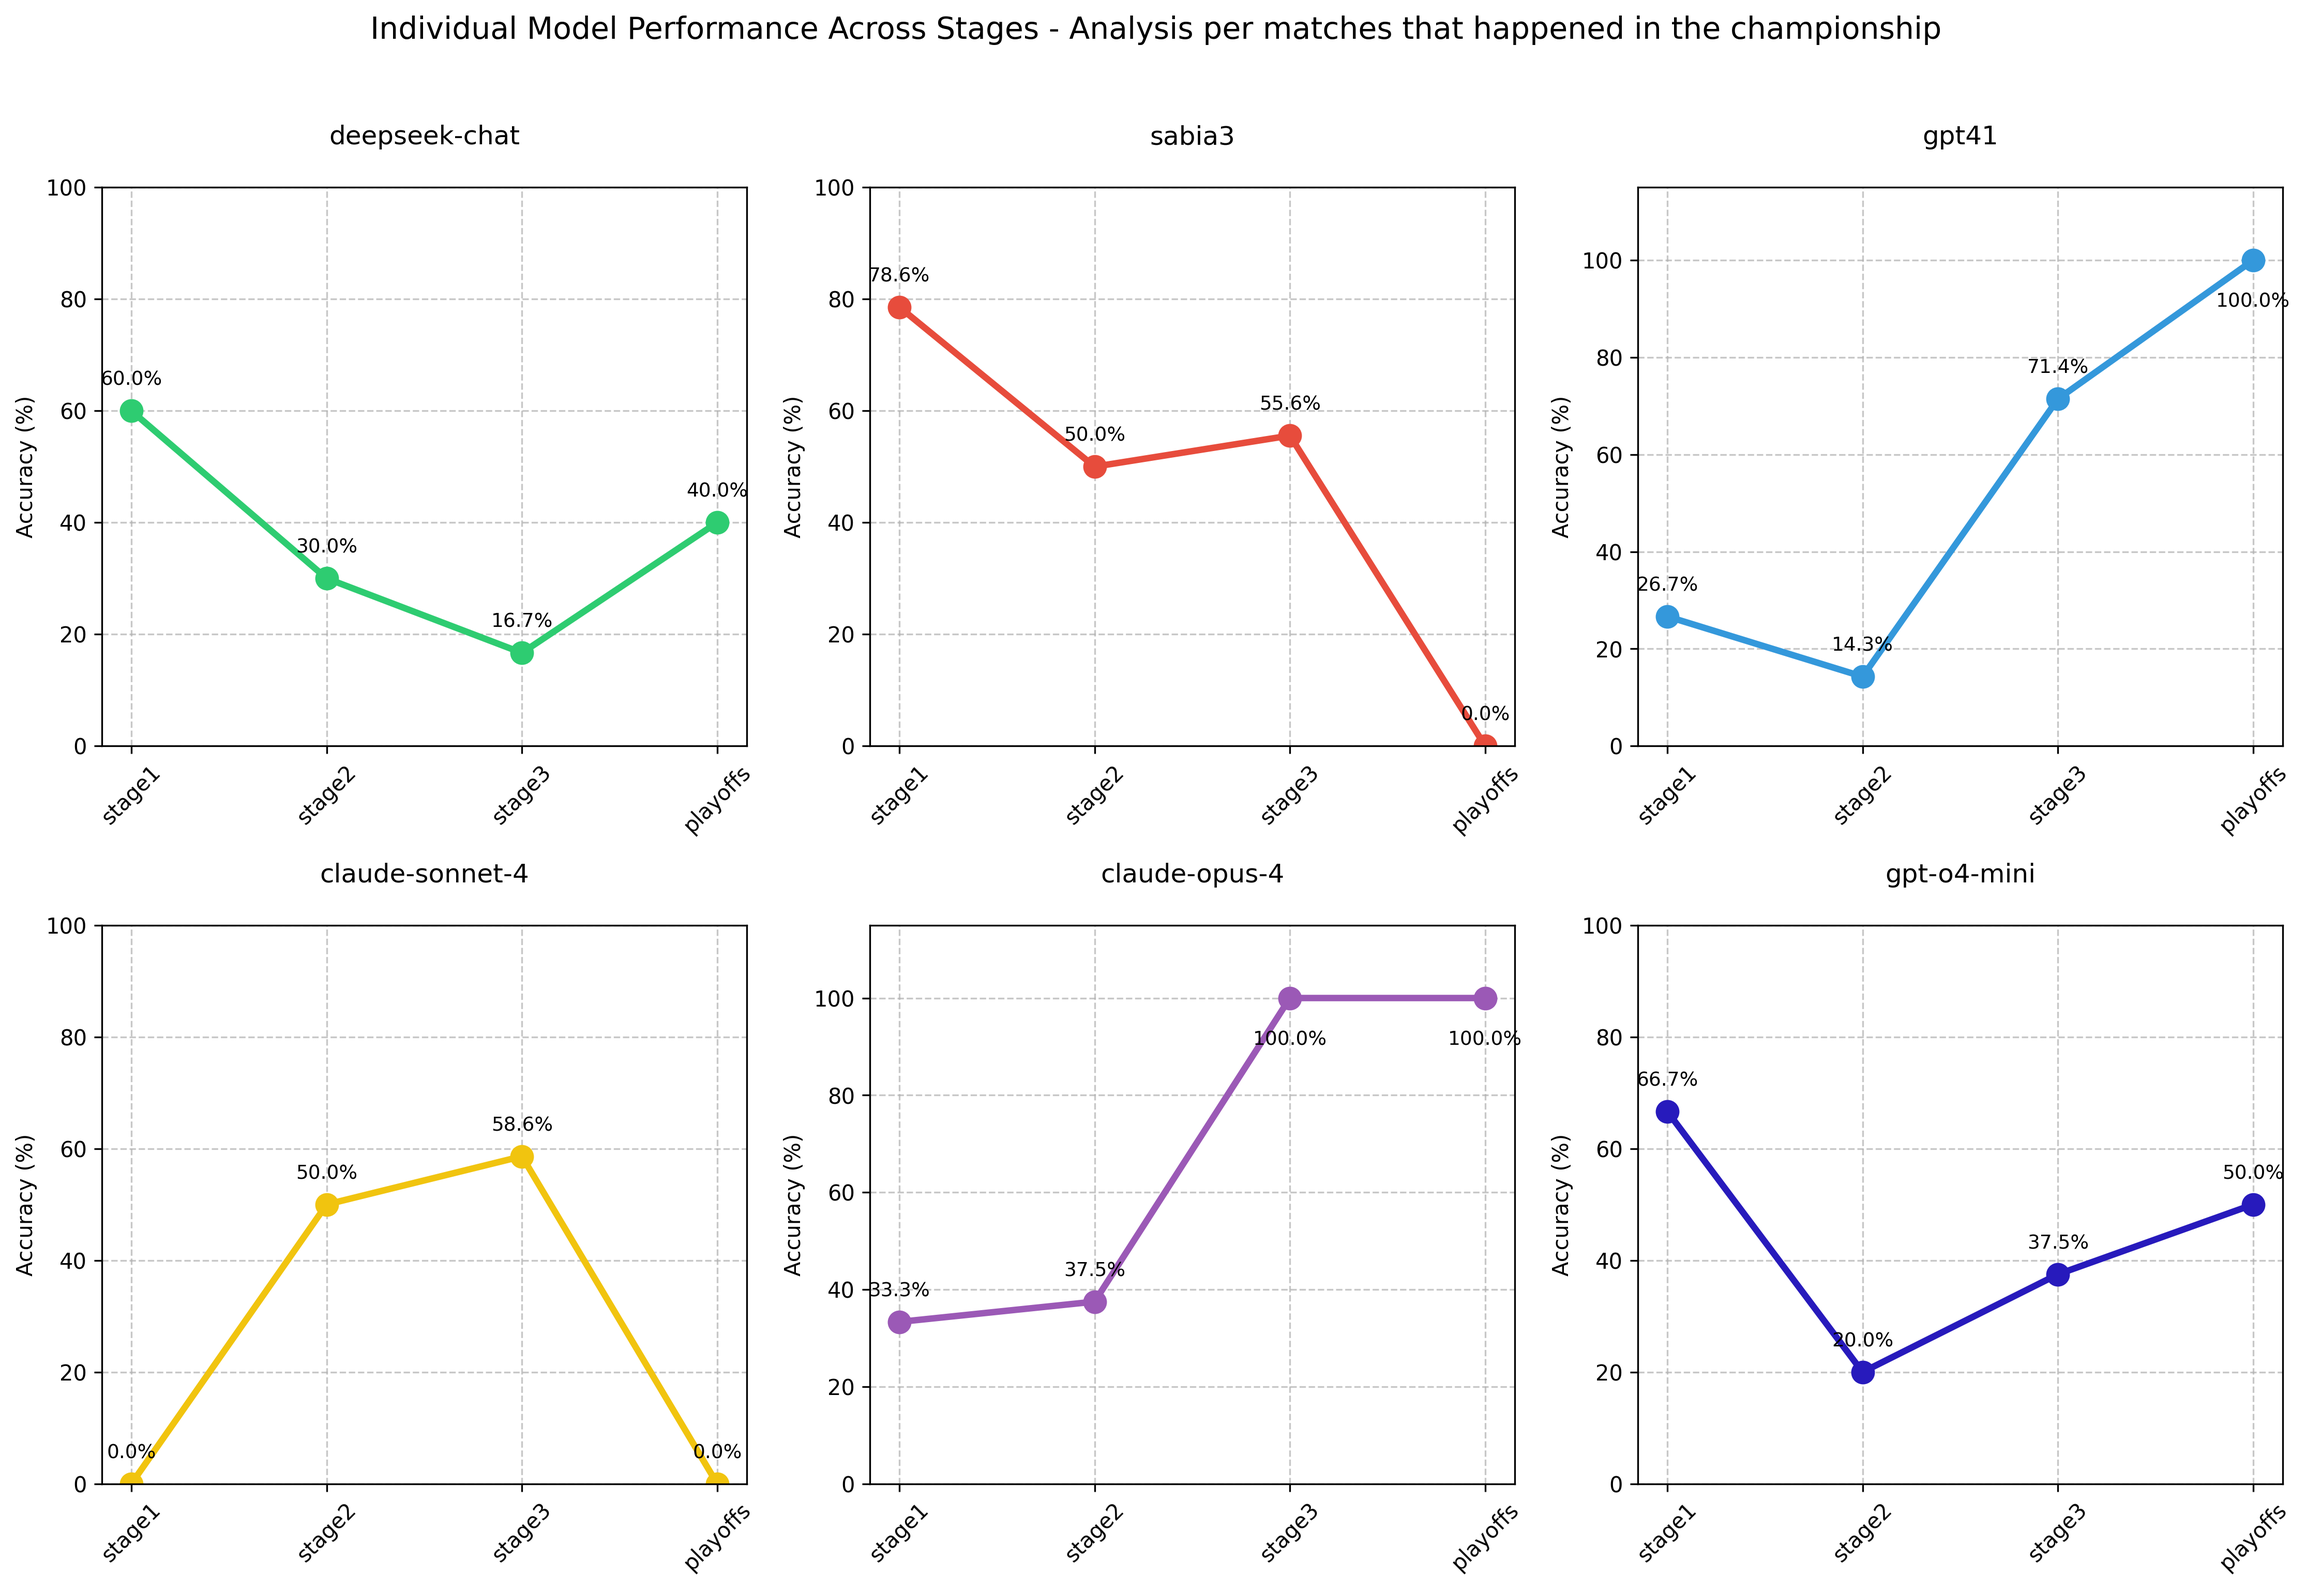
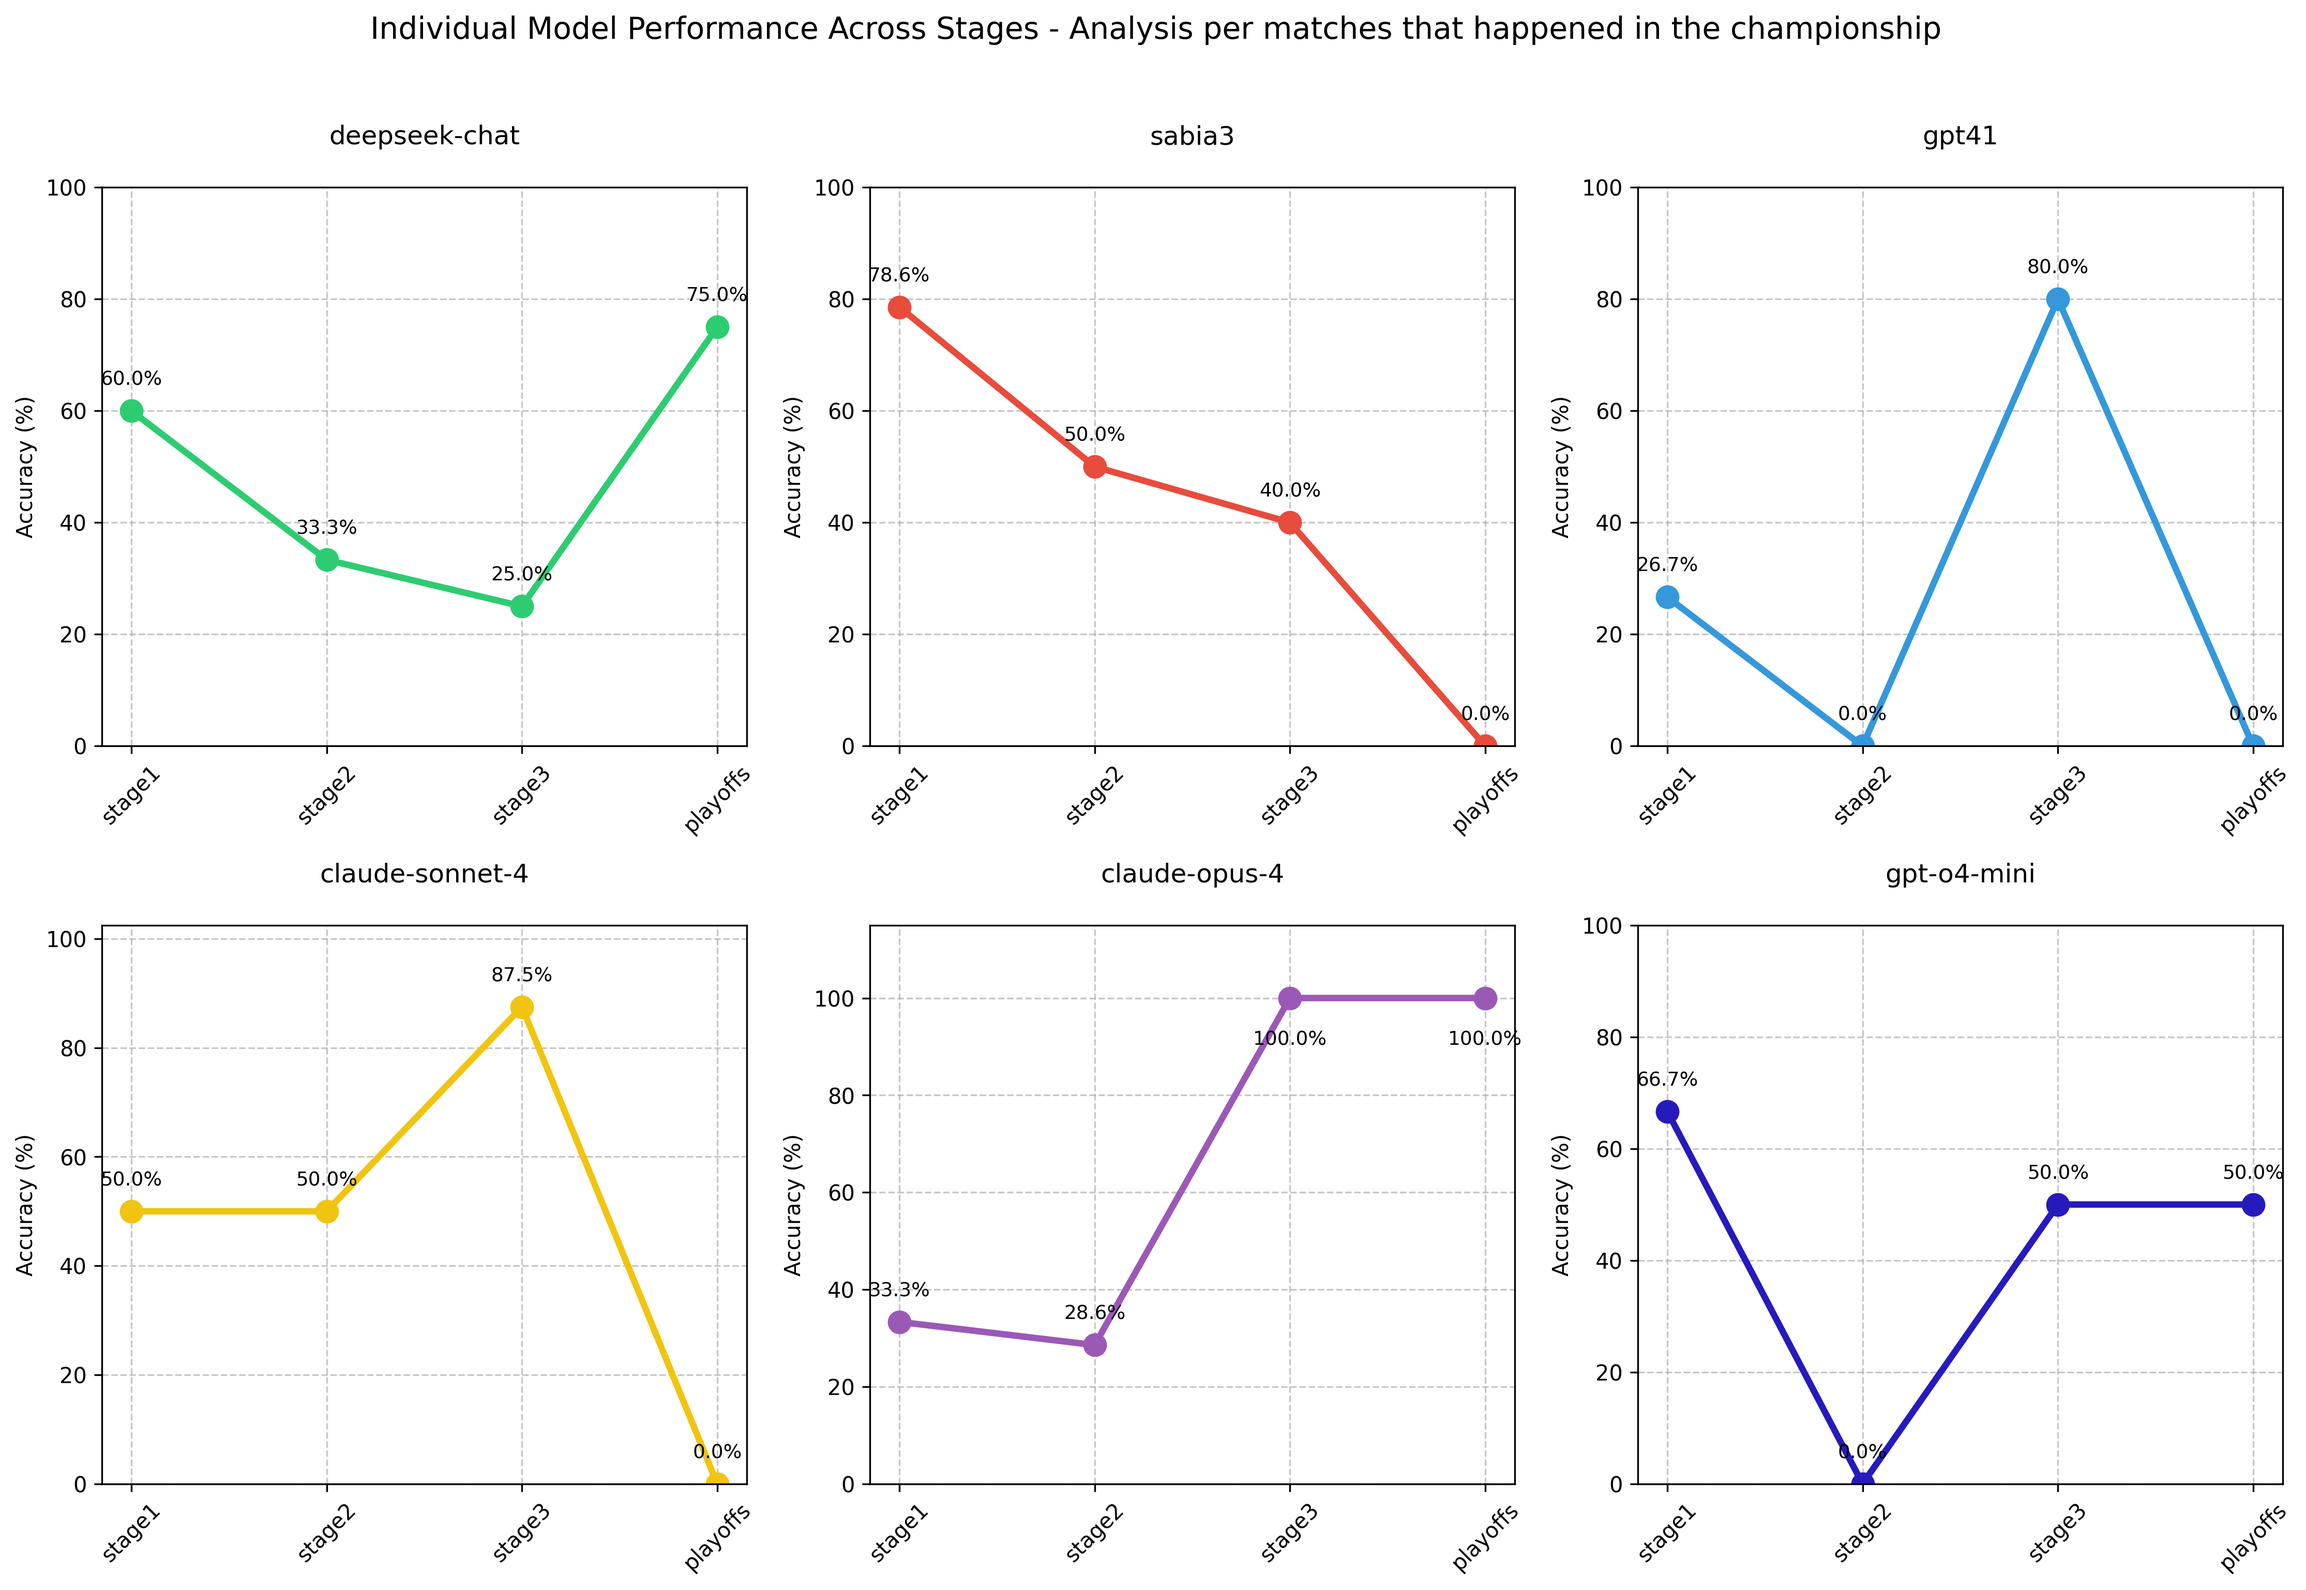
fix: remove dedupe from real world analysis, adjust results gen

diff --git a/results/analysis/analysis-per-match.md b/results/analysis/analysis-per-match.md
@@ -25,7 +25,7 @@ Wrong Predictions:
 - Imperial vs Nemiga (actual: Nemiga)
 
 ### stage2
-Accuracy: 30.00% (3/10 matches)
+Accuracy: 33.33% (3/9 matches)
 
 Correct Predictions:
 - HEROIC vs TYLOO
@@ -34,7 +34,6 @@ Correct Predictions:
 
 Wrong Predictions:
 - FURIA vs paiN (actual: paiN)
-- Legacy vs Lynn Vision (actual: Lynn Vision)
 - B8 vs FURIA (actual: FURIA)
 - HEROIC vs FAZE (actual: FAZE)
 - B8 vs Virtus.pro (actual: Virtus.pro)
@@ -42,34 +41,26 @@ Wrong Predictions:
 - Falcons vs B8 (actual: B8)
 
 ### stage3
-Accuracy: 16.67% (1/6 matches)
+Accuracy: 25.00% (1/4 matches)
 
 Correct Predictions:
 - The MongolZ vs G2
 
 Wrong Predictions:
 - Aurora vs G2 (actual: G2)
-- HEROIC vs B8 (actual: B8)
 - The MongolZ vs FAZE (actual: FAZE)
-- FAZE vs 3DMAX (actual: 3DMAX)
 - G2 vs 3DMAX (actual: 3DMAX)
 
 ### playoffs
-Accuracy: 40.00% (4/10 matches)
+Accuracy: 75.00% (3/4 matches)
 
 Correct Predictions:
-- MOUZ vs Aurora
 - Vitality vs MOUZ
-- The MongolZ vs G2
 - Vitality vs The MongolZ
+- The MongolZ vs FAZE
 
 Wrong Predictions:
-- Aurora vs G2 (actual: G2)
-- HEROIC vs B8 (actual: B8)
 - Spirit vs MOUZ (actual: MOUZ)
-- The MongolZ vs FAZE (actual: FAZE)
-- FAZE vs 3DMAX (actual: 3DMAX)
-- G2 vs 3DMAX (actual: 3DMAX)
 
 ---
 
@@ -97,12 +88,11 @@ Wrong Predictions:
 - BetBoom vs FlyQuest (actual: FlyQuest)
 
 ### stage2
-Accuracy: 50.00% (5/10 matches)
+Accuracy: 50.00% (4/8 matches)
 
 Correct Predictions:
 - TYLOO vs M80
 - FAZE vs MIBR
-- HEROIC vs NRG
 - Legacy vs MIBR
 - Falcons vs OG
 
@@ -111,21 +101,16 @@ Wrong Predictions:
 - FURIA vs paiN (actual: paiN)
 - BetBoom vs 3DMAX (actual: 3DMAX)
 - HEROIC vs FAZE (actual: FAZE)
-- Complexity vs TYLOO (actual: TYLOO)
 
 ### stage3
-Accuracy: 55.56% (5/9 matches)
+Accuracy: 40.00% (2/5 matches)
 
 Correct Predictions:
-- HEROIC vs TYLOO
 - MOUZ vs Liquid
 - Spirit vs Natus Vincere
-- FAZE vs TYLOO
-- NRG vs Complexity
 
 Wrong Predictions:
 - Vitality vs Legacy (actual: Legacy)
-- Legacy vs BetBoom (actual: BetBoom)
 - Aurora vs G2 (actual: G2)
 - The MongolZ vs FAZE (actual: FAZE)
 
@@ -159,116 +144,89 @@ Wrong Predictions:
 - Lynn Vision vs Nemiga (actual: Nemiga)
 
 ### stage2
-Accuracy: 14.29% (1/7 matches)
-
-Correct Predictions:
-- NRG vs Complexity
+Accuracy: 0.00% (0/5 matches)
 
 Wrong Predictions:
 - HEROIC vs B8 (actual: B8)
 - HEROIC vs FAZE (actual: FAZE)
-- NRG vs OG (actual: OG)
 - B8 vs FURIA (actual: FURIA)
 - B8 vs Virtus.pro (actual: Virtus.pro)
 - TYLOO vs FAZE (actual: FAZE)
 
 ### stage3
-Accuracy: 71.43% (5/7 matches)
+Accuracy: 80.00% (4/5 matches)
 
 Correct Predictions:
 - G2 vs Aurora
-- HEROIC vs TYLOO
 - MOUZ vs Liquid
 - Spirit vs Natus Vincere
 - The MongolZ vs G2
 
 Wrong Predictions:
-- TYLOO vs NRG (actual: NRG)
 - FAZE vs Aurora (actual: Aurora)
 
 ### playoffs
-Accuracy: 100.00% (1/1 matches)
-
-Correct Predictions:
-- Spirit vs Natus Vincere
+Accuracy: 0.00% (0/0 matches)
 
 ---
 
 ## claude-sonnet-4
 
 ### stage1
-Accuracy: 0.00% (0/0 matches)
+Accuracy: 50.00% (8/16 matches)
+
+Correct Predictions:
+- FlyQuest vs Fluxo
+- HEROIC vs Chinggis Warriors
+- B8 vs OG
+- NRG vs Complexity
+- BetBoom vs Wildcard
+- B8 vs Imperial
+- Wildcard vs Metizport
+- BetBoom vs Nemiga
+
+Wrong Predictions:
+- OG vs Complexity (actual: Complexity)
+- Legacy vs Lynn Vision (actual: Lynn Vision)
+- TYLOO vs NRG (actual: NRG)
+- BetBoom vs FlyQuest (actual: FlyQuest)
+- NRG vs Lynn Vision (actual: Lynn Vision)
+- Fluxo vs Complexity (actual: Complexity)
+- TYLOO vs OG (actual: OG)
+- Imperial vs Nemiga (actual: Nemiga)
 
 ### stage2
-Accuracy: 50.00% (11/22 matches)
+Accuracy: 50.00% (3/6 matches)
 
 Correct Predictions:
 - HEROIC vs TYLOO
-- FlyQuest vs Fluxo
-- HEROIC vs Chinggis Warriors
-- B8 vs OG
-- NRG vs Complexity
 - Legacy vs FAZE
-- BetBoom vs Wildcard
-- B8 vs Imperial
 - HEROIC vs BetBoom
-- Wildcard vs Metizport
-- BetBoom vs Nemiga
 
 Wrong Predictions:
 - paiN vs Virtus.pro (actual: Virtus.pro)
 - B8 vs FURIA (actual: FURIA)
-- OG vs Complexity (actual: Complexity)
-- Legacy vs Lynn Vision (actual: Lynn Vision)
-- TYLOO vs NRG (actual: NRG)
-- BetBoom vs FlyQuest (actual: FlyQuest)
 - B8 vs Virtus.pro (actual: Virtus.pro)
-- NRG vs Lynn Vision (actual: Lynn Vision)
-- Fluxo vs Complexity (actual: Complexity)
-- TYLOO vs OG (actual: OG)
-- Imperial vs Nemiga (actual: Nemiga)
 
 ### stage3
-Accuracy: 58.62% (17/29 matches)
+Accuracy: 87.50% (7/8 matches)
 
 Correct Predictions:
-- HEROIC vs TYLOO
-- FlyQuest vs Fluxo
-- HEROIC vs Chinggis Warriors
-- Legacy vs 3DMAX
+- paiN vs Virtus.pro
 - Aurora vs FAZE
 - MOUZ vs Legacy
-- B8 vs OG
 - Vitality vs 3DMAX
-- NRG vs Complexity
-- Legacy vs FAZE
-- BetBoom vs Wildcard
-- B8 vs Imperial
-- HEROIC vs BetBoom
+- Legacy vs Lynn Vision
 - The MongolZ vs G2
 - Natus Vincere vs 3DMAX
-- Wildcard vs Metizport
-- BetBoom vs Nemiga
 
 Wrong Predictions:
-- paiN vs Virtus.pro (actual: Virtus.pro)
-- B8 vs FURIA (actual: FURIA)
-- OG vs Complexity (actual: Complexity)
-- HEROIC vs FAZE (actual: FAZE)
-- Legacy vs Lynn Vision (actual: Lynn Vision)
-- TYLOO vs NRG (actual: NRG)
-- BetBoom vs FlyQuest (actual: FlyQuest)
-- B8 vs Virtus.pro (actual: Virtus.pro)
-- NRG vs Lynn Vision (actual: Lynn Vision)
-- Fluxo vs Complexity (actual: Complexity)
-- TYLOO vs OG (actual: OG)
-- Imperial vs Nemiga (actual: Nemiga)
+- Legacy vs FAZE (actual: FAZE)
 
 ### playoffs
-Accuracy: 0.00% (0/2 matches)
+Accuracy: 0.00% (0/1 matches)
 
 Wrong Predictions:
-- Vitality vs Legacy (actual: Legacy)
 - Spirit vs MOUZ (actual: MOUZ)
 
 ---
@@ -295,12 +253,11 @@ Wrong Predictions:
 - Lynn Vision vs Nemiga (actual: Nemiga)
 
 ### stage2
-Accuracy: 37.50% (3/8 matches)
+Accuracy: 28.57% (2/7 matches)
 
 Correct Predictions:
 - Legacy vs 3DMAX
 - FAZE vs MIBR
-- NRG vs Complexity
 
 Wrong Predictions:
 - B8 vs FURIA (actual: FURIA)
@@ -310,20 +267,17 @@ Wrong Predictions:
 - paiN vs Virtus.pro (actual: Virtus.pro)
 
 ### stage3
-Accuracy: 100.00% (4/4 matches)
-
-Correct Predictions:
-- HEROIC vs TYLOO
-- MOUZ vs Aurora
-- MOUZ vs Legacy
-- Legacy vs Imperial
-
-### playoffs
 Accuracy: 100.00% (2/2 matches)
 
 Correct Predictions:
+- MOUZ vs Aurora
+- MOUZ vs Legacy
+
+### playoffs
+Accuracy: 100.00% (1/1 matches)
+
+Correct Predictions:
 - Vitality vs MOUZ
-- Spirit vs Natus Vincere
 
 ---
 
@@ -349,47 +303,31 @@ Wrong Predictions:
 - Nemiga vs BetBoom (actual: BetBoom)
 
 ### stage2
-Accuracy: 20.00% (1/5 matches)
-
-Correct Predictions:
-- NRG vs TYLOO
+Accuracy: 0.00% (0/3 matches)
 
 Wrong Predictions:
 - FAZE vs 3DMAX (actual: 3DMAX)
-- NRG vs HEROIC (actual: HEROIC)
 - FAZE vs Legacy (actual: Legacy)
 - HEROIC vs B8 (actual: B8)
 
 ### stage3
-Accuracy: 37.50% (3/8 matches)
+Accuracy: 50.00% (2/4 matches)
 
 Correct Predictions:
 - Vitality vs 3DMAX
 - Natus Vincere vs 3DMAX
-- NRG vs TYLOO
 
 Wrong Predictions:
-- HEROIC vs FAZE (actual: FAZE)
 - G2 vs Natus Vincere (actual: Natus Vincere)
-- 3DMAX vs Legacy (actual: Legacy)
 - MOUZ vs FAZE (actual: FAZE)
-- NRG vs HEROIC (actual: HEROIC)
 
 ### playoffs
-Accuracy: 50.00% (5/10 matches)
+Accuracy: 50.00% (1/2 matches)
 
 Correct Predictions:
-- Natus Vincere vs G2
-- Vitality vs 3DMAX
 - Vitality vs Natus Vincere
-- Natus Vincere vs 3DMAX
-- NRG vs TYLOO
 
 Wrong Predictions:
-- HEROIC vs FAZE (actual: FAZE)
-- 3DMAX vs Legacy (actual: Legacy)
-- MOUZ vs FAZE (actual: FAZE)
-- NRG vs HEROIC (actual: HEROIC)
 - Spirit vs MOUZ (actual: MOUZ)
 
 ---
